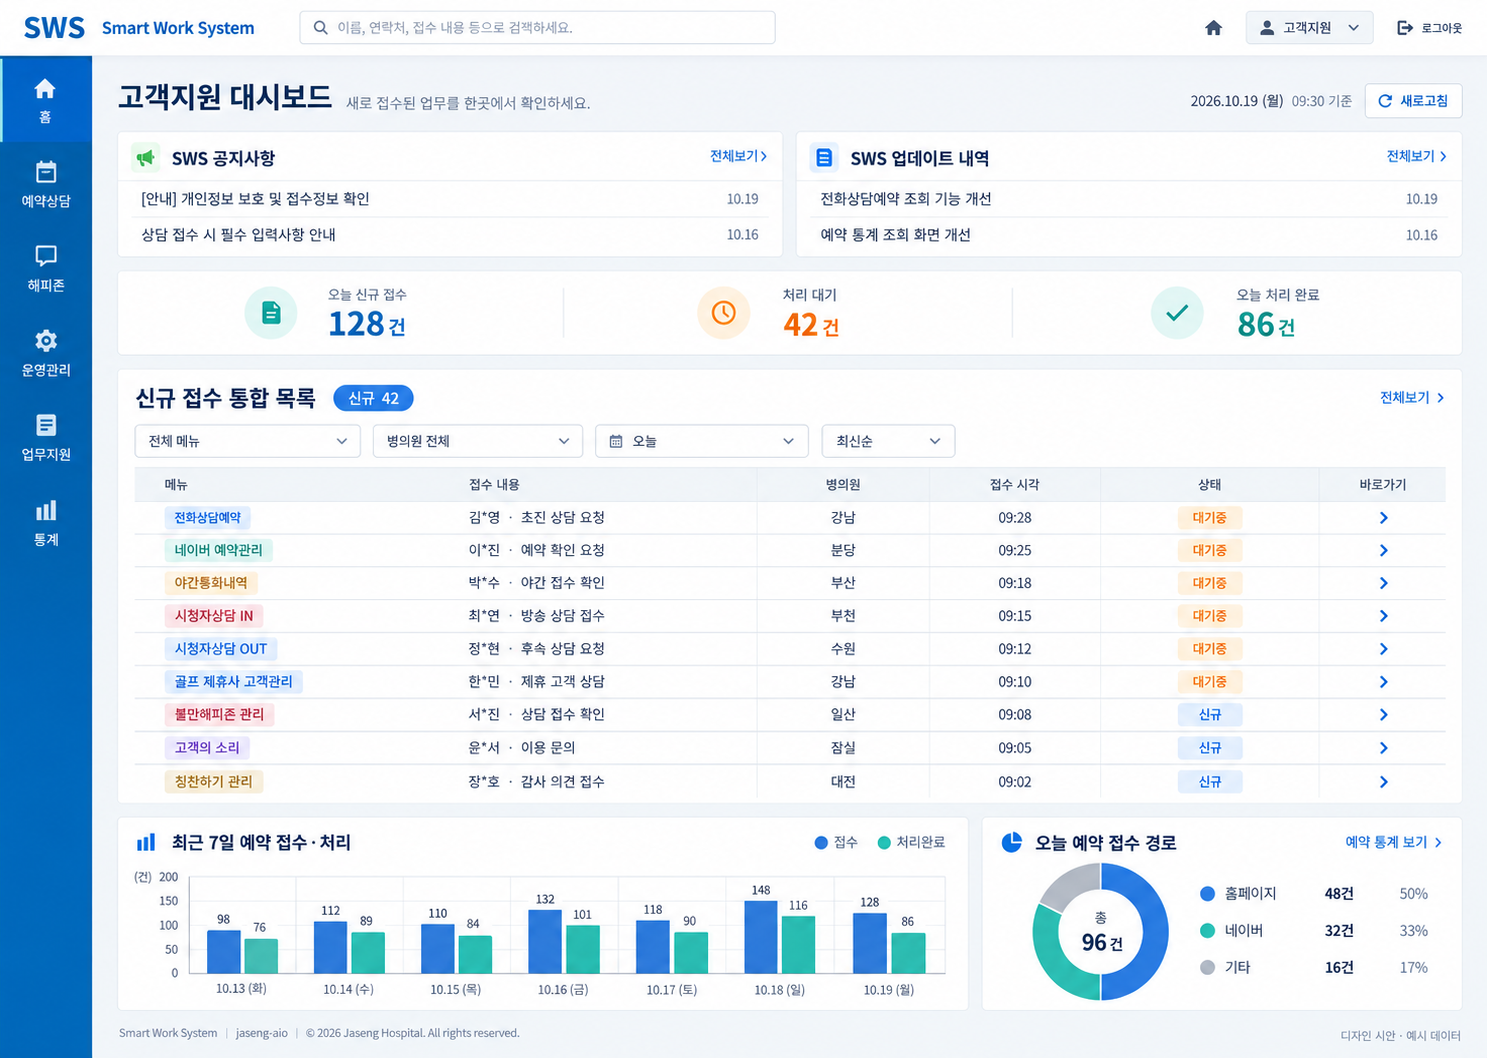
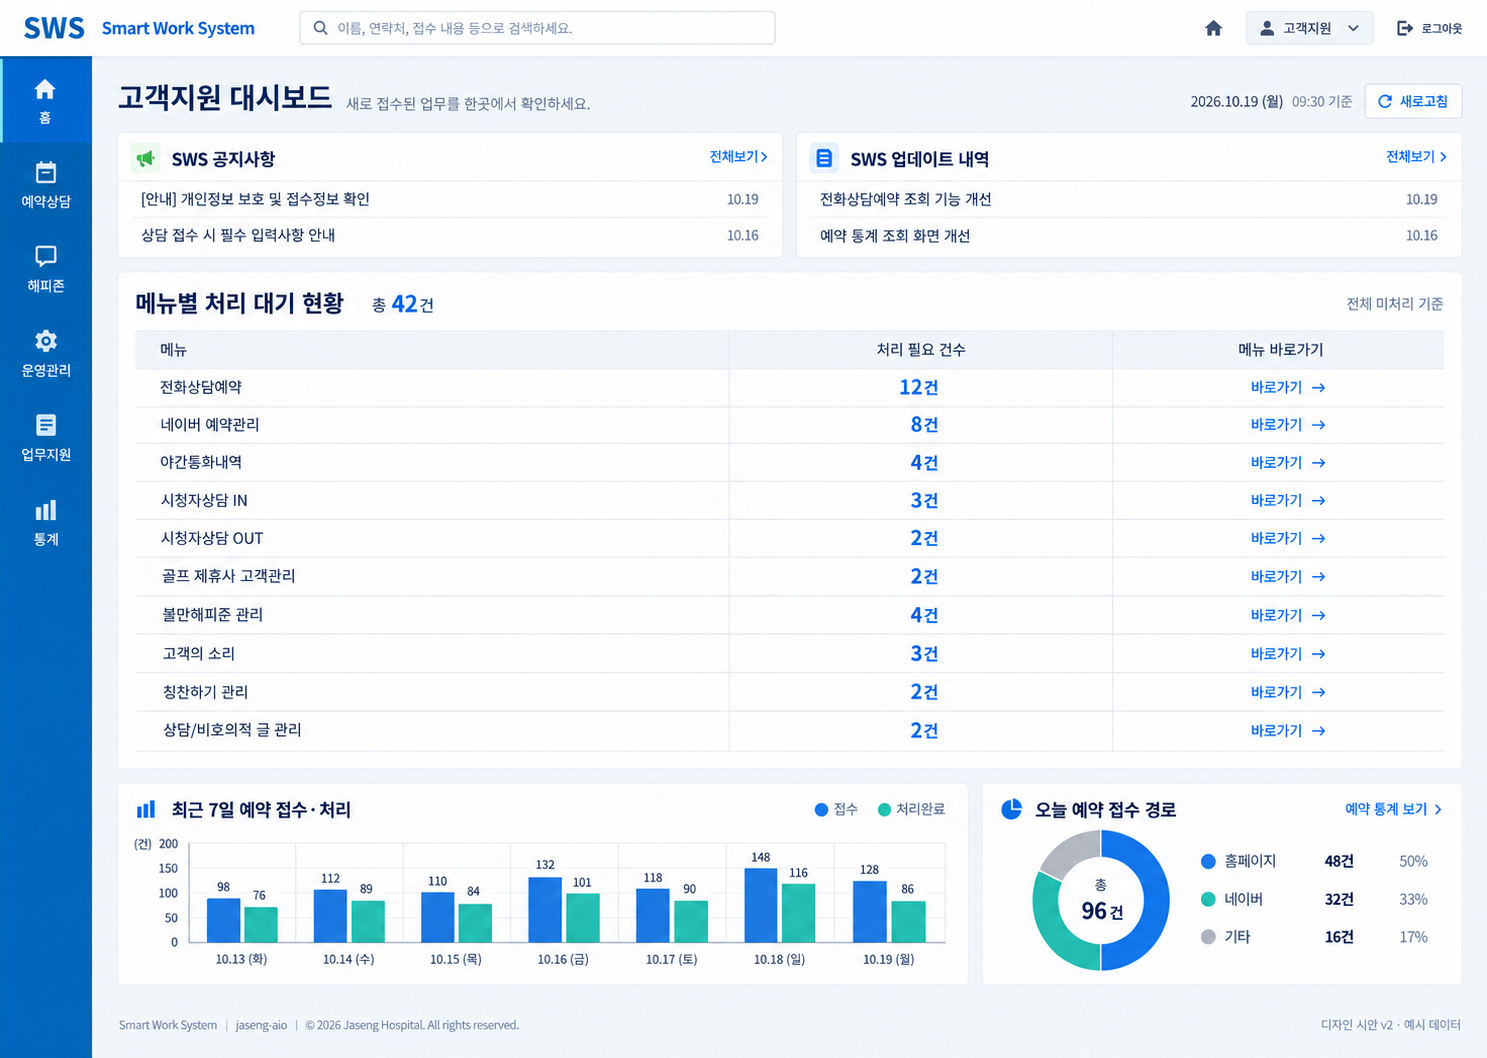
update

diff --git a/index.html b/index.html
@@ -1,66 +1,71 @@
 <!doctype html>
 <html lang="ko">
 <head>
-  <meta charset="utf-8">
-  <meta name="viewport" content="width=device-width, initial-scale=1">
-  <title>SWS 권한별 대시보드 시안</title>
-  <style>
-    * { box-sizing: border-box; }
-    html { scroll-behavior: smooth; scroll-padding-top: 90px; }
-    body { margin: 0; background: #f5f7fa; color: #213348; font: 15px/1.7 "Malgun Gothic", sans-serif; }
-    header, main { max-width: 1480px; margin: auto; padding: 28px 24px; }
-    h1 { margin: 0 0 8px; font-size: 28px; }
-    p { margin: 8px 0; }
-    header p, .meta { color: #5f7185; }
-    nav { position: sticky; top: 0; z-index: 1; padding: 14px 24px; background: #fff; border-block: 1px solid #e3e8ee; }
-    nav div { max-width: 1432px; margin: auto; display: flex; gap: 24px; flex-wrap: wrap; }
-    a { color: #0072bc; text-underline-offset: 4px; }
-    a:focus-visible { outline: 3px solid #0072bc; outline-offset: 5px; }
-    section { margin-bottom: 56px; }
-    h2 { margin: 0; font-size: 22px; }
-    .caption { display: flex; align-items: baseline; justify-content: space-between; flex-wrap: wrap; gap: 8px; }
-    img { display: block; width: 100%; height: auto; margin-top: 16px; border: 1px solid #e3e8ee; }
-    footer { padding: 0 24px 36px; text-align: center; color: #5f7185; }
-    @media (prefers-reduced-motion: reduce) { html { scroll-behavior: auto; } }
-  </style>
+<meta charset="utf-8">
+<meta name="viewport" content="width=device-width, initial-scale=1">
+<title>SWS 권한별 대시보드 시안 v2</title>
+<style>
+*{box-sizing:border-box}html{scroll-padding-top:100px;scroll-behavior:smooth}
+body{margin:0;background:#f5f7fa;color:#213348;font:15px/1.7 "Malgun Gothic",sans-serif}
+header,main{max-width:1480px;margin:auto;padding:28px 24px}h1{font-size:28px;margin:0 0 8px}h2{font-size:22px;margin:0}p{margin:8px 0}
+.meta,header p{color:#5f7185}nav{position:sticky;top:0;z-index:1;padding:14px 24px;background:white;border-block:1px solid #e3e8ee}
+nav div{max-width:1432px;margin:auto;display:flex;gap:20px;flex-wrap:wrap}a{color:#0072bc;text-underline-offset:4px}
+a:focus-visible{outline:3px solid #0072bc;outline-offset:5px}
+section{margin-bottom:56px}.caption{display:flex;align-items:baseline;justify-content:space-between;gap:8px;flex-wrap:wrap}
+img{display:block;width:100%;height:auto;margin-top:16px;border:1px solid #e3e8ee}
+footer{padding:0 24px 36px;color:#5f7185;text-align:center}code{overflow-wrap:anywhere}
+@media(prefers-reduced-motion:reduce){html{scroll-behavior:auto}}
+</style>
 </head>
 <body>
-  <header>
-    <h1>SWS 권한별 대시보드 시안</h1>
-    <p>공통 공지·업데이트와 Fomantic UI 카드 구성을 이어가는 4개 권한별 이미지 시안입니다.</p>
-    <p>2026.10.19 · 예시 데이터 · 이미지 검토용 자료입니다. 화면 속 버튼과 차트는 동작하지 않습니다.</p>
-  </header>
-  <nav aria-label="권한별 시안 이동">
-    <div>
-      <a href="#admin">관리자 / 운영자</a>
-      <a href="#support">고객지원</a>
-      <a href="#nursing">간호</a>
-      <a href="#frontoffice">원무</a>
-      <a href="README.md">데이터 구성·설계 메모</a>
-    </div>
-  </nav>
-  <main>
-    <section id="admin" aria-labelledby="admin-title">
-      <div class="caption"><h2 id="admin-title">관리자 / 운영자</h2><a href="admin-operator.png" target="_blank" rel="noopener">원본 이미지 열기</a></div>
-      <p class="meta">총 사용자·현재 접속자·오늘 로그인 사용자·비활성 계정, 접속 추이 및 권한그룹별 사용자 현황.</p>
-      <a href="admin-operator.png" target="_blank" rel="noopener"><img src="admin-operator.png" alt="상단 공지와 업데이트, 사용자 지표 4개, 접속 추이 차트와 권한그룹별 막대 차트가 있는 관리자 운영자 대시보드 시안"></a>
-    </section>
-    <section id="support" aria-labelledby="support-title">
-      <div class="caption"><h2 id="support-title">고객지원</h2><a href="customer-support.png" target="_blank" rel="noopener">원본 이미지 열기</a></div>
-      <p class="meta">여러 메뉴의 신규 접수를 하나의 목록으로 모아 확인하고, 하단에서 예약 접수·처리 통계를 확인합니다.</p>
-      <a href="customer-support.png" target="_blank" rel="noopener"><img src="customer-support.png" loading="lazy" alt="고객지원 신규 건을 메뉴별로 나누지 않고 하나의 표에 모으고 하단에 예약 접수 처리 통계를 배치한 시안"></a>
-    </section>
-    <section id="nursing" aria-labelledby="nursing-title">
-      <div class="caption"><h2 id="nursing-title">간호</h2><a href="nursing.png" target="_blank" rel="noopener">원본 이미지 열기</a></div>
-      <p class="meta">초진유선상담, 초진전화약신청, 온라인 입원상담관리, 초진예약 요청관리, 공통이벤트 신청관리, 유공자/유가족 의료지원 고객.</p>
-      <a href="nursing.png" target="_blank" rel="noopener"><img src="nursing.png" loading="lazy" alt="간호 업무 6개 메뉴를 3열 2행 카드로 배치하고 각 카드에 처리 필요 건수와 바로가기를 표시한 시안"></a>
-    </section>
-    <section id="frontoffice" aria-labelledby="frontoffice-title">
-      <div class="caption"><h2 id="frontoffice-title">원무</h2><a href="front-office.png" target="_blank" rel="noopener">원본 이미지 열기</a></div>
-      <p class="meta">TA/산재 상담, 응급출동119, 연말정산 접수관리의 처리 대기 건수를 메뉴당 하나의 카드로 표시합니다.</p>
-      <a href="front-office.png" target="_blank" rel="noopener"><img src="front-office.png" loading="lazy" alt="원무 업무 3개 카드와 처리 기준 안내. 연말정산은 한방 또는 양방 미처리 접수를 중복 제외하여 집계하는 시안"></a>
-    </section>
-  </main>
-  <footer>이미지와 공지 내용·통계·환자명은 모두 디자인 검토를 위한 예시입니다. 상세 메뉴 및 집계 기준은 README.md를 참고하세요.</footer>
+<header>
+<h1>SWS 권한별 대시보드 시안 v2</h1>
+<p>수정본 4종 + 추가 권한 2종 · 2026.10.19 · 모든 건수와 내용은 예시 데이터입니다.</p>
+<p>이미지 검토용 자료입니다. 화면 속 버튼·검색·차트는 동작하지 않습니다.</p>
+<p>저장 위치: <code>D:\GitHub\jaseng-aio\docs\design\dashboard\2026-10-19-v2</code></p>
+<p>이 파일과 PNG 이미지 6개를 같은 폴더에 두고 브라우저에서 열어주세요.</p>
+</header>
+<nav aria-label="권한별 시안 이동"><div>
+<a href="#admin">관리자 / 운영자</a>
+<a href="#support">고객지원</a>
+<a href="#nursing">간호</a>
+<a href="#frontoffice">원무</a>
+<a href="#herb">원외탕전실</a>
+<a href="#media">미디어팀(담당)</a>
+<a href="README.md">설계 메모</a>
+</div></nav>
+<main>
+<section id="admin" aria-labelledby="admin-title">
+<div class="caption"><h2 id="admin-title">관리자 / 운영자</h2><a href="admin-operator.png" target="_blank" rel="noopener">원본 이미지 열기</a></div>
+<p class="meta">최근 사용자 접속 이력을 제거하고 사용자 지표와 차트만 유지했습니다.</p>
+<a href="admin-operator.png" target="_blank" rel="noopener"><img src="admin-operator.png" width="1487" height="1058" alt="관리자 / 운영자 대시보드 시안 v2. 최근 사용자 접속 이력을 제거하고 사용자 지표와 차트만 유지했습니다."></a>
+</section>
+<section id="support" aria-labelledby="support-title">
+<div class="caption"><h2 id="support-title">고객지원</h2><a href="customer-support.png" target="_blank" rel="noopener">원본 이미지 열기</a></div>
+<p class="meta">하나의 목록에 메뉴별 처리 필요 건수와 바로가기만 표시합니다. 예약 통계는 하단에 유지합니다.</p>
+<a href="customer-support.png" target="_blank" rel="noopener"><img src="customer-support.png" loading="lazy" width="1487" height="1058" alt="고객지원 대시보드 시안 v2. 하나의 목록에 메뉴별 처리 필요 건수와 바로가기만 표시합니다. 예약 통계는 하단에 유지합니다."></a>
+</section>
+<section id="nursing" aria-labelledby="nursing-title">
+<div class="caption"><h2 id="nursing-title">간호</h2><a href="nursing.png" target="_blank" rel="noopener">원본 이미지 열기</a></div>
+<p class="meta">6개 메뉴의 처리 필요 건수를 표시합니다. 병의원 선택 기능을 제거하고 본인 소속 병의원 데이터만 표시합니다.</p>
+<a href="nursing.png" target="_blank" rel="noopener"><img src="nursing.png" loading="lazy" width="1487" height="1058" alt="간호 대시보드 시안 v2. 6개 메뉴의 처리 필요 건수를 표시합니다. 병의원 선택 기능을 제거하고 본인 소속 병의원 데이터만 표시합니다."></a>
+</section>
+<section id="frontoffice" aria-labelledby="frontoffice-title">
+<div class="caption"><h2 id="frontoffice-title">원무</h2><a href="front-office.png" target="_blank" rel="noopener">원본 이미지 열기</a></div>
+<p class="meta">3개 메뉴별 처리 대기 건수를 표시합니다. 병의원 선택 기능 없이 본인 소속 병의원 데이터만 표시합니다.</p>
+<a href="front-office.png" target="_blank" rel="noopener"><img src="front-office.png" loading="lazy" width="1487" height="1058" alt="원무 대시보드 시안 v2. 3개 메뉴별 처리 대기 건수를 표시합니다. 병의원 선택 기능 없이 본인 소속 병의원 데이터만 표시합니다."></a>
+</section>
+<section id="herb" aria-labelledby="herb-title">
+<div class="caption"><h2 id="herb-title">원외탕전실</h2><a href="external-dispensary.png" target="_blank" rel="noopener">원본 이미지 열기</a></div>
+<p class="meta">한약 원내비치요청서·약침 원내비치요청서·반송약관리의 미확인 요청 건수와 바로가기를 표시합니다.</p>
+<a href="external-dispensary.png" target="_blank" rel="noopener"><img src="external-dispensary.png" loading="lazy" width="1487" height="1058" alt="원외탕전실 대시보드 시안 v2. 한약 원내비치요청서·약침 원내비치요청서·반송약관리의 미확인 요청 건수와 바로가기를 표시합니다."></a>
+</section>
+<section id="media" aria-labelledby="media-title">
+<div class="caption"><h2 id="media-title">미디어팀(담당)</h2><a href="media-manager.png" target="_blank" rel="noopener">원본 이미지 열기</a></div>
+<p class="meta">활동내역 관리의 확인요청 게시글 수와 해당 목록 바로가기를 표시합니다.</p>
+<a href="media-manager.png" target="_blank" rel="noopener"><img src="media-manager.png" loading="lazy" width="1487" height="1058" alt="미디어팀(담당) 대시보드 시안 v2. 활동내역 관리의 확인요청 게시글 수와 해당 목록 바로가기를 표시합니다."></a>
+</section>
+</main>
+<footer>디자인 시안 v2 · 예시 데이터 · 기존 시안은 인접한 2026-10-19 폴더에 보관되어 있습니다.</footer>
 </body>
 </html>

diff --git a/README.md b/README.md
@@ -1,2 +1,89 @@
-# pages_test
-test
+# SWS 권한별 대시보드 시안 v2
+
+작성일: 2026-10-19. Product Design으로 기존 시안을 수정하고 원외탕전실·미디어팀(담당) 시안을 추가했습니다. 모든 숫자·공지·게시글 내용은 예시이며, 운영 화면 구현 전 검토용 이미지입니다.
+
+## 저장 위치와 확인 방법
+
+절대경로: `D:\GitHub\jaseng-aio\docs\design\dashboard\2026-10-19-v2`
+
+이 폴더의 `index.html`을 브라우저로 열면 6개 시안을 함께 볼 수 있습니다. PNG를 직접 열어 원본 크기로 확인할 수도 있습니다. HTML과 PNG는 같은 폴더에 보관하세요. 서버 실행이나 외부 라이브러리는 필요하지 않습니다.
+
+이전 파일이 상대경로로 첨부될 때 읽기 오류가 발생했으나 기존 이미지 4개는 원래 폴더에 존재하는 것을 확인했습니다. 이번 산출물은 별도 폴더로 저장하며 안내에는 절대경로를 사용합니다.
+
+| 권한 | 파일 | 반영 사항 |
+| --- | --- | --- |
+| 관리자 / 운영자 | [admin-operator.png](admin-operator.png) | 최근 사용자 접속 이력 전체 제거. 하단은 추가 요소 없이 비움 |
+| 고객지원 | [customer-support.png](customer-support.png) | 메뉴·처리 필요 건수·바로가기만 있는 통합 목록. 통계 유지 |
+| 간호 | [nursing.png](nursing.png) | 병의원 선택 제거. 본인 소속 병의원 데이터만 표시 |
+| 원무 | [front-office.png](front-office.png) | 병의원 선택 제거. 본인 소속 병의원 데이터만 표시 |
+| 원외탕전실 | [external-dispensary.png](external-dispensary.png) | 기존 3개 메뉴의 미확인 요청 건수와 바로가기 |
+| 미디어팀(담당) | [media-manager.png](media-manager.png) | 활동내역 관리의 확인요청 게시글 수와 목록 바로가기 |
+
+기존 `../2026-10-19` 시안은 보관했습니다. 시안의 기존 파란색 계열·Fomantic UI 카드 형태·상단 공지와 업데이트 영역을 유지했습니다. 정적 이미지이므로 이미지 속 버튼·검색·차트는 동작하지 않습니다.
+
+## 고객지원
+
+개별 접수 내용·환자명·접수 시각·병의원·상태 필터는 통합 목록에서 제거했습니다. 각 메뉴는 목록에서 한 행만 사용합니다.
+
+| 메뉴 | 처리 필요 건수 예시 |
+| --- | ---: |
+| 전화상담예약 | 12 |
+| 네이버 예약관리 | 8 |
+| 야간통화내역 | 4 |
+| 시청자상담 IN | 3 |
+| 시청자상담 OUT | 2 |
+| 골프 제휴사 고객관리 | 2 |
+| 불만해피존 관리 | 4 |
+| 고객의 소리 | 3 |
+| 칭찬하기 관리 | 2 |
+| 상담/비호의적 글 관리 | 2 |
+| 합계 | 42 |
+
+“전체 미처리”는 오늘 접수한 건에 한정하지 않고, 접근 가능한 메뉴에서 아직 처리해야 할 업무를 의미합니다. 각 메뉴의 처리 상태를 같은 코드로 가정하지 않습니다. 구현 시 메뉴별 상태 조건으로 집계하며 등록일과 수정일을 혼용하지 않아야 합니다.
+
+하단 예약 통계는 예약만 대상으로 하는 별도 범위입니다. 도넛 예시 합계 96건은 전체 미처리 42건과 다른 지표입니다.
+
+## 간호·원무
+
+병의원 선택 UI를 제거하고 `소속 병의원 · 강남`을 읽기 전용 정보로 표시합니다. 강남은 예시입니다. 실제 로그인 사용자의 `MemberDTO.branchCode`에 해당하는 병의원 데이터만 목록과 집계에 함께 적용해야 합니다.
+
+화면에서 선택기를 숨기는 것 외에 서버의 카운트 API와 바로가기 대상 목록 모두 동일하게 소속 병의원 범위를 제한해야 합니다. 클라이언트가 전달하는 임의의 병의원 코드로 조회 범위를 넓히면 안 됩니다.
+
+간호의 6개 카드와 합계 42건, 원무의 3개 카드와 합계 19건은 기존 시안과 같습니다. 연말정산은 한방 미처리 3건 + 양방 미처리 2건 - 양쪽 모두 미처리 1건 = 고유 접수 4건입니다.
+
+## 원외탕전실
+
+| 기존 메뉴 | 처리 필요 건수 예시 | 원본 화면 |
+| --- | ---: | --- |
+| 한약 원내비치요청서 | 12 | `src/main/resources/templates/herb/request/herb/list.html` |
+| 약침 원내비치요청서 | 7 | `src/main/resources/templates/herb/request/pharm/list.html` |
+| 반송약관리 | 5 | `src/main/resources/templates/herb/request/returnRequest/list.html` |
+
+한약·반송약 화면은 행정팀·조제팀·환제팀·탕전팀·배송팀의 확인 필드 `team1..team5`가 있습니다. 약침 화면은 행정팀·조제관리팀의 `team1..team2`가 있습니다. 서로 다른 확인 필드 구성을 참고해 각 메뉴에서 관련 팀 확인이 남은 요청을 집계하는 시안입니다.
+
+동일 요청에 여러 팀의 확인이 남아 있어도 해당 메뉴의 요청 UUID 기준 1건으로 집계합니다. 구체적으로 어떤 팀 확인을 해당 담당자의 처리 대상으로 볼지와 Bool 필드의 미확인·NULL 규칙은 실제 업무 정책에 맞춰 정해야 합니다. “확인 대기”는 설명 문구이며 새 DB 상태 코드를 가정한 것이 아닙니다.
+
+`HerbQueryRepository`와 `ReturnReqQueryRepository`에는 `orgCode`에 따라 소속 탕전실의 병의원 범위를 제한하는 조건이 있습니다. `PharmQueryRepository`에서 확인한 조회는 날짜 조건만 있으므로 대시보드 구현 때 약침에도 해당 권한의 범위를 적용해야 합니다. 간호·원무의 “단일 소속 병의원”과 원외탕전실의 “담당 탕전실에 연결된 병의원 범위”는 구분합니다.
+
+## 미디어팀(담당)
+
+기존 `활동내역 관리` 메뉴의 `checkState = '확인요청'` 게시글을 예시 18건으로 표시합니다. 카운트와 바로가기는 동일한 상태 조건을 사용합니다.
+
+근거:
+
+- `src/main/java/com/jaseng/aio/mediateam/activity/ActivityController.java`: 메뉴명 활동내역 관리.
+- `src/main/java/com/jaseng/aio/mediateam/activity/entity/ActivityEntity.java`: `checkState`, `uuid`, 삭제 여부.
+- `src/main/java/com/jaseng/aio/mediateam/activity/ActivityQueryRepository.java`: 상태·병의원·유형별 조회.
+- `src/main/resources/templates/mediateam/activity/list.html`: 확인요청·수정필요·수정완료·등록완료 상태.
+
+파일 첨부 조인으로 게시글이 중복 집계되지 않도록 UUID 기준으로 셉니다. 기존 삭제 제외 규칙과 메뉴 접근 범위도 적용해야 합니다.
+
+`ActivityEntity`에서 검토 담당자별 소유 필드는 확인하지 못했으므로 “내 이름으로 배정된 게시글”이라는 새 조건은 가정하지 않았습니다. 이 시안은 미디어팀 담당 권한으로 접근 가능한 확인요청 글 기준입니다. 수정완료 글의 재검토도 포함해야 하는지는 업무 정책에 따라 별도 결정하며 이번 카운트에는 포함하지 않았습니다.
+
+## 검증
+
+생성한 이미지 6개를 직접 확인했습니다. 저장 파일의 PNG 헤더·크기와 모아보기의 이미지·문서 링크가 실제 파일을 가리키는지 점검합니다. 운영 UI·권한 필터·데이터 연동은 이번 이미지 시안 작업의 구현 범위가 아닙니다.
+
+저장소 지침에 따라 `gradlew.bat test`를 다시 실행했습니다. 21개 중 1개가 실패했습니다. 이전 실행과 동일하게 `targetMailTest.java:35`에서 `NoSuchElementException`이 발생했습니다. 이번 작업에서 애플리케이션·테스트 소스는 수정하지 않았습니다.
+
+세부 데이터 구성은 `design-spec.json`, 이미지 수정 지시는 `generation-prompts.json`에 기록했습니다.
